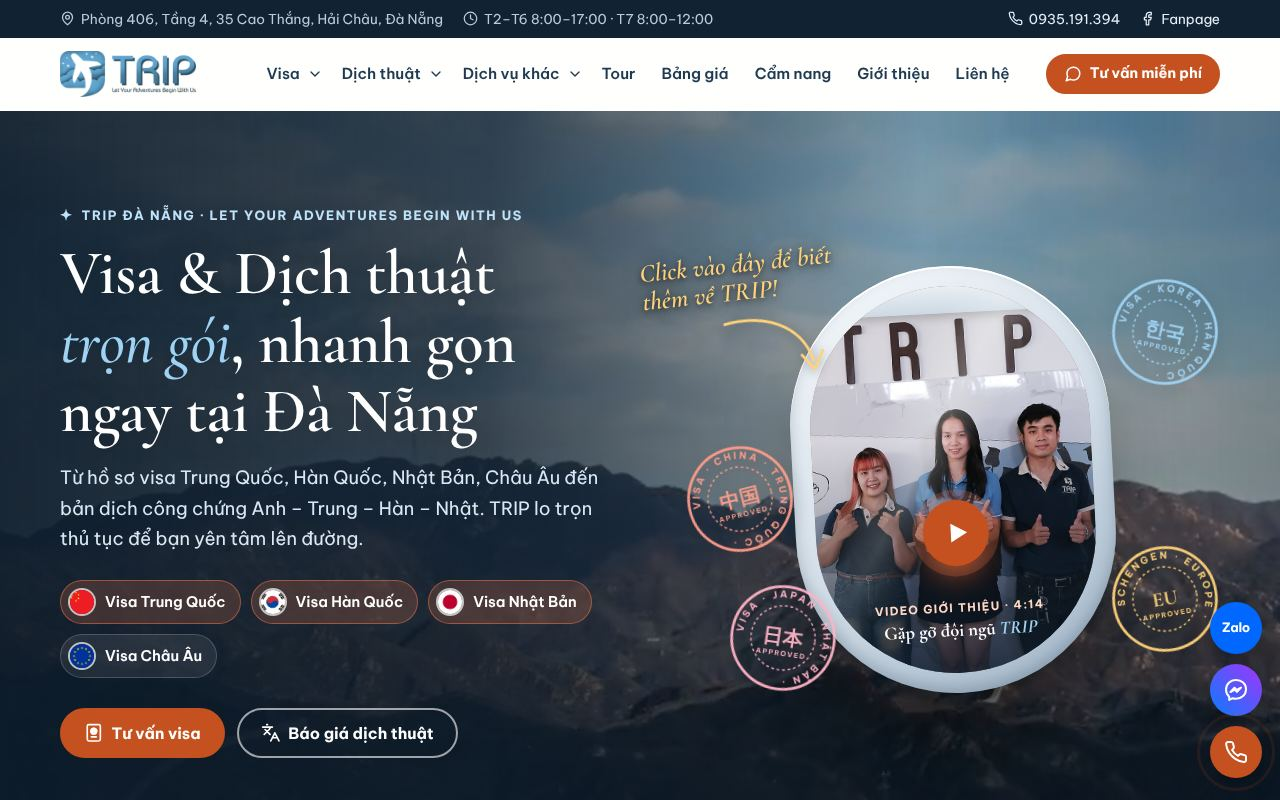
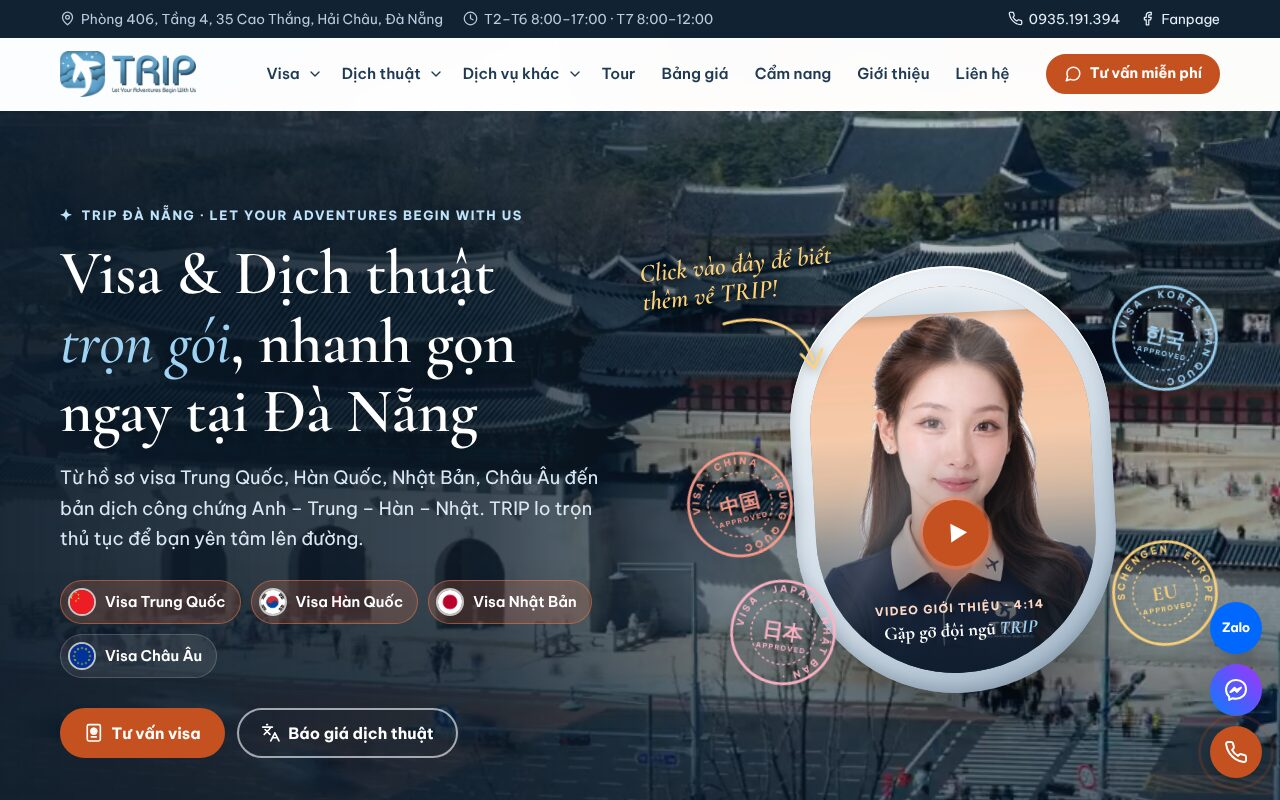
Đổi link website TRIP sang tripdn.com (#33)
- Dự án TRIP trên trang chủ trỏ về https://tripdn.com (thay cho link github.io cũ)
- Cập nhật ảnh chụp trang mới

Claude-Session: https://claude.ai/code/session_01TJR4VrXvefkCQdhUjXC1EX

diff --git a/index.html b/index.html
@@ -474,8 +474,8 @@
       </article>
 
       <article class="case reveal">
-        <a class="case-shot" href="https://ntkimhoan267-lgtm.github.io/tripcompany/" target="_blank" rel="noopener" aria-label="TRIP — visa &amp; translation website">
-          <div class="browser"><div class="browser-bar"><i></i><i></i><i></i><span>ntkimhoan267-lgtm.github.io/tripcompany</span></div>
+        <a class="case-shot" href="https://tripdn.com" target="_blank" rel="noopener" aria-label="TRIP — visa &amp; translation website">
+          <div class="browser"><div class="browser-bar"><i></i><i></i><i></i><span>tripdn.com</span></div>
             <img src="images/work-tripcompany.jpg" alt="Trang chủ TRIP — Visa và dịch thuật tại Đà Nẵng" loading="lazy" width="1280" height="800"></div>
         </a>
         <div class="case-body">
@@ -489,7 +489,7 @@
             <li data-en="Price list, guides and intro video to build trust" data-vi="Bảng giá, cẩm nang và video giới thiệu để tạo niềm tin">Price list, guides and intro video to build trust</li>
           </ul>
           <div class="chips"><span class="chip">Lead gen</span><span class="chip">Mobile-first</span><span class="chip">Zalo</span></div>
-          <a class="case-link" href="https://ntkimhoan267-lgtm.github.io/tripcompany/" target="_blank" rel="noopener"><span data-en="Visit the site" data-vi="Xem website">Visit the site</span> ↗</a>
+          <a class="case-link" href="https://tripdn.com" target="_blank" rel="noopener"><span data-en="Visit tripdn.com" data-vi="Xem tripdn.com">Visit tripdn.com</span> ↗</a>
         </div>
       </article>
 
